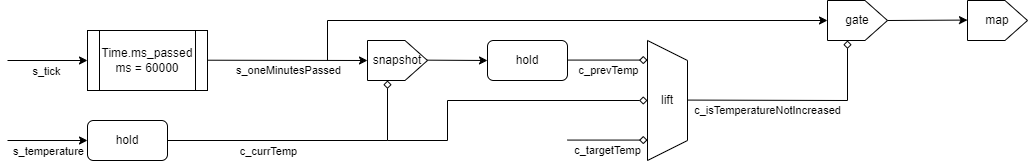
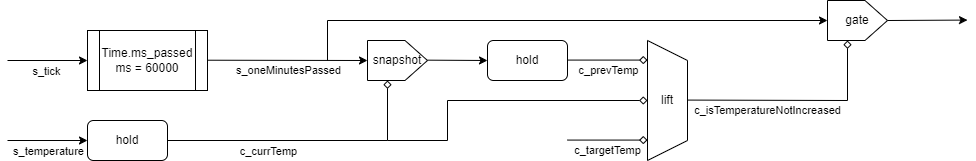
fix: fix docs and codes

diff --git a/src/app/pot/core/error.ts b/src/app/pot/core/error.ts
@@ -26,7 +26,7 @@ export const error_temperature_not_increased = ({
     },
   );
 
-  return s_oneMinutesPassed.gate(c_isTemperatureNotIncreased).mapTo(Unit.UNIT);
+  return s_oneMinutesPassed.gate(c_isTemperatureNotIncreased);
 };
 
 type ErrorTemperatureTooHighInput = {

diff --git a/docs/error.md b/docs/error.md
@@ -4,7 +4,7 @@
 
 ## error_temperature_not_increased
 
-加熱しているのに温度が上がらず5分が経過した際に発生するエラー
+加熱するべきときに温度が上がらず1分が経過した際に発生するエラー
 
 ### ネットワーク図
 
